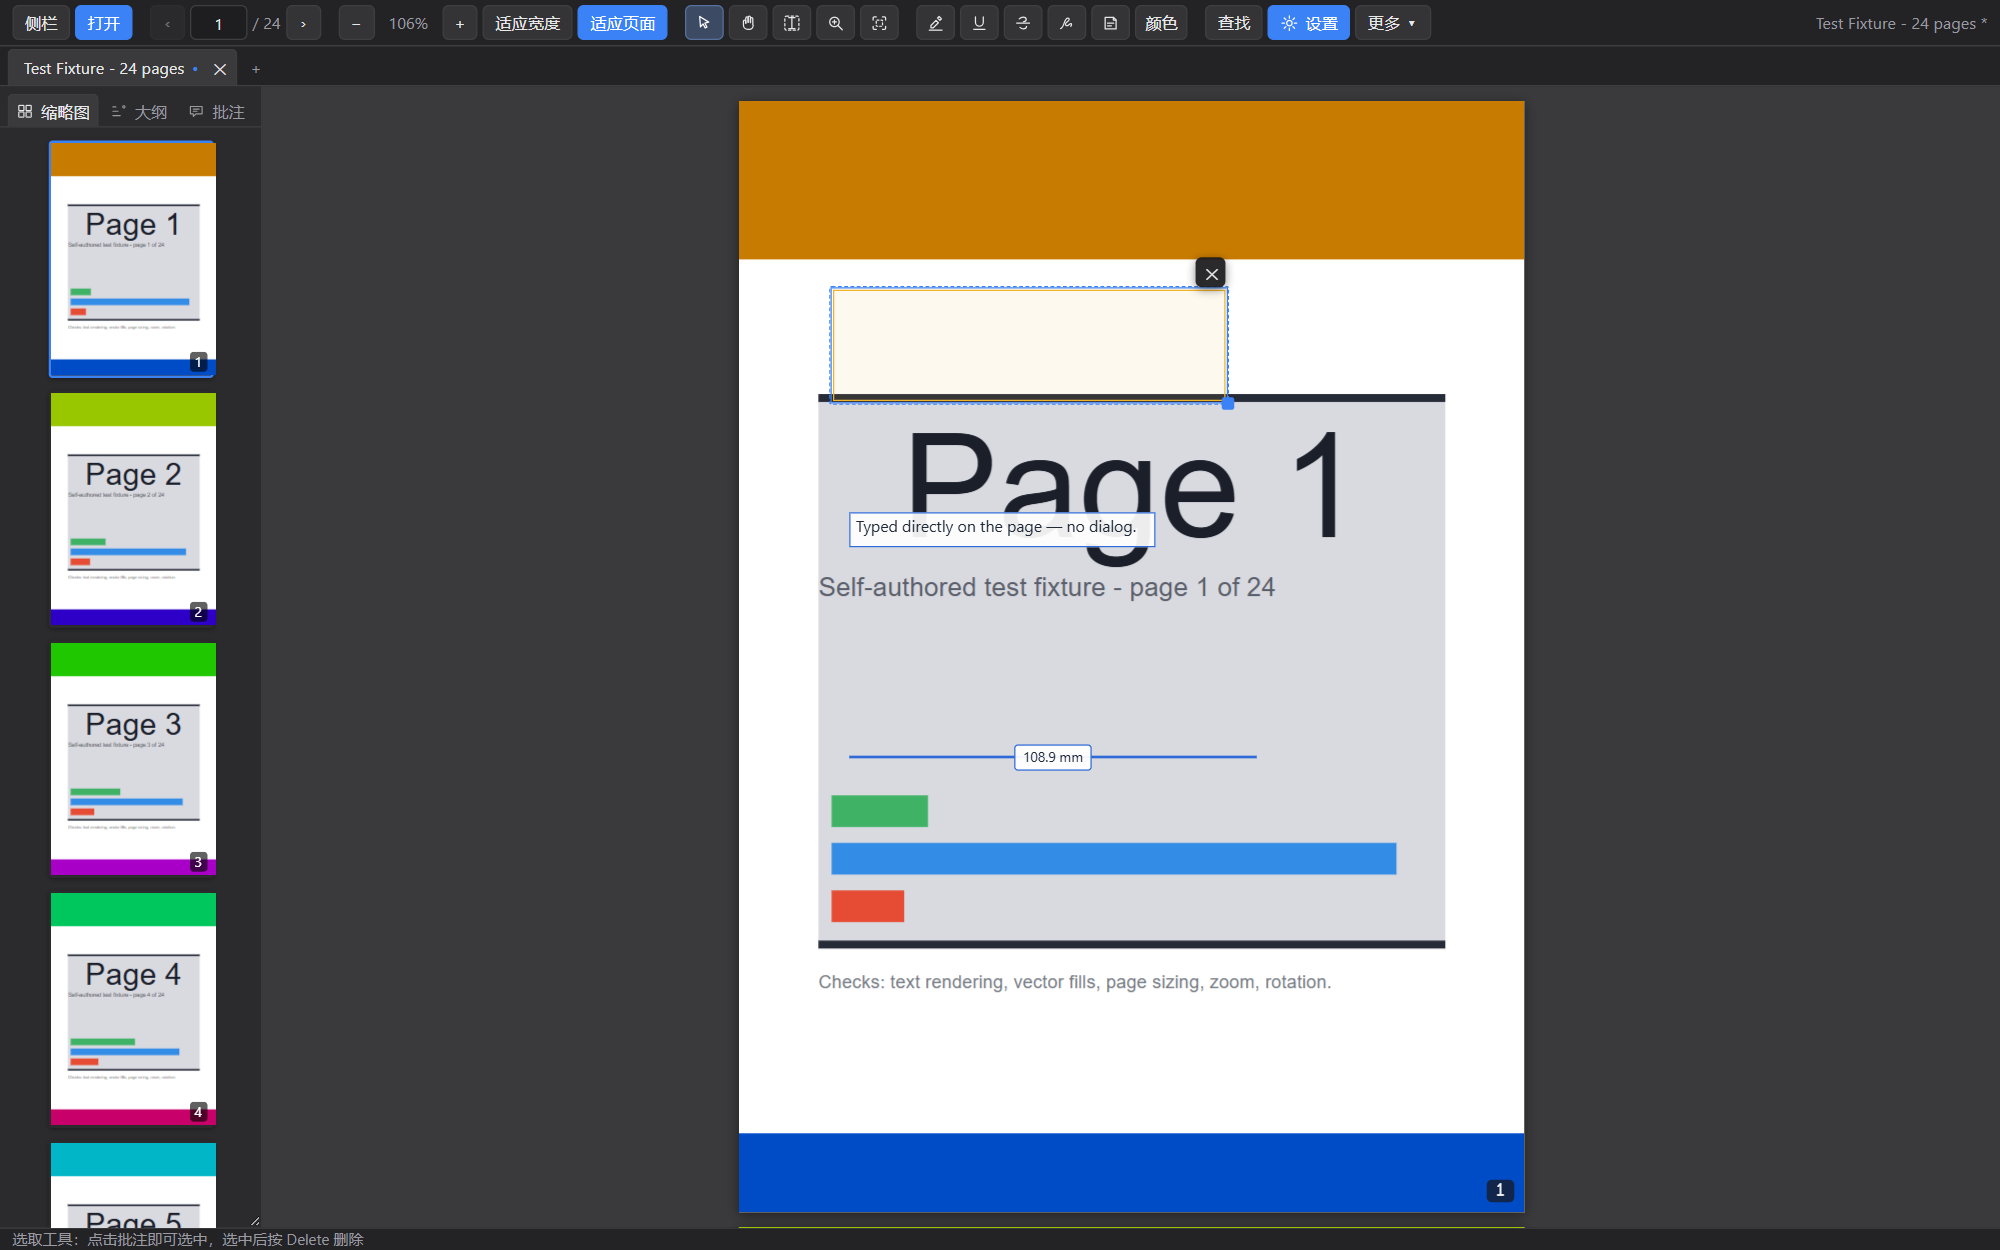
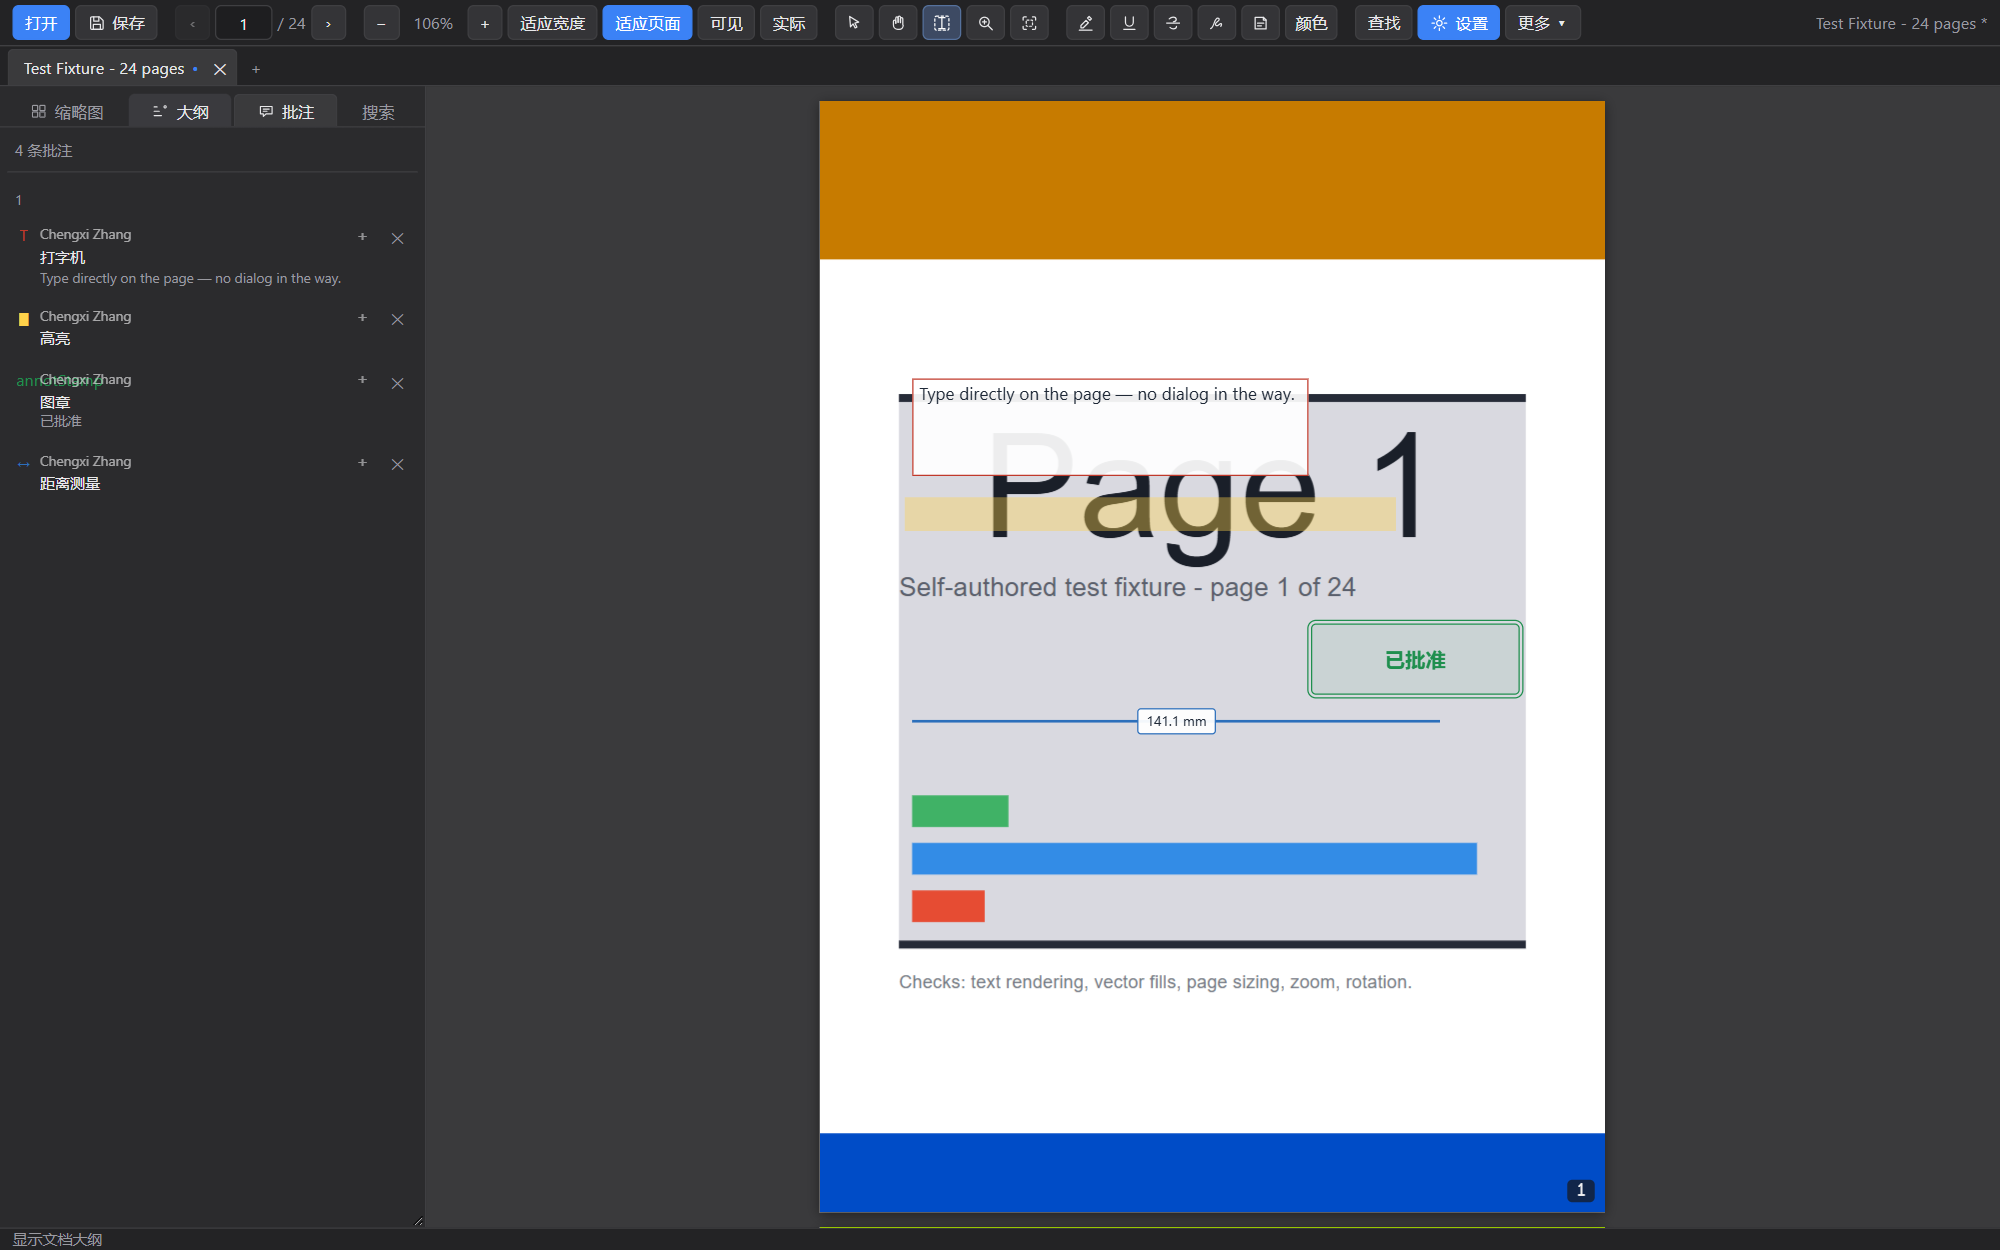
Name every annotation kind in the panel, and refresh the screenshots
The panel labelled almost everything "rectangle". `kindCommandId` mapped five kinds and
let the rest fall through to its default, so a typewriter box, a stamp, both text tools
and all three measurements appeared as rectangles -- a list you cannot tell apart. It now
covers every kind, and the mapping is exhaustive, so adding one without a label is a type
error rather than a silent default.

The screenshots are what a visitor sees first, and they were captured before printing,
stamps, replace text and the search panel existed. They now show a page with a typewriter
box, a highlight, a standard stamp and a distance measurement, beside the panel that lists
them -- and they show the fixed labels, which is how the labelling defect was noticed at
all: the panel in the old capture said "rectangle" for a stamp.

tools/make-screenshots.mjs regenerates both images from the running build, so the next
time the interface changes they can be brought up to date instead of drifting again.

731 browser assertions, 0 failures.

diff --git a/src/main.ts b/src/main.ts
@@ -900,6 +900,13 @@ async function saveCurrentStyle(): Promise<void> {
   setStatus(`${i18n.t('styleSaved')}: ${style.name}`);
 }
 
+/**
+ * The command a panel row is labelled with.
+ *
+ * Every kind is mapped: falling back to a default labelled every shape, every stamp and
+ * both text tools as a rectangle, which made the panel's list useless for telling them
+ * apart.
+ */
 function kindCommandId(kind: AnnotKind): number {
   switch (kind) {
     case 'highlight':
@@ -908,14 +915,30 @@ function kindCommandId(kind: AnnotKind): number {
       return CMD.AnnotUnderline;
     case 'strikeout':
       return CMD.AnnotStrikeout;
+    case 'replace':
+      return CMD.AnnotReplace;
     case 'ink':
       return CMD.AnnotInk;
     case 'note':
       return CMD.AnnotNote;
-    case 'replace':
-      return CMD.AnnotReplace;
-    default:
+    case 'rect':
       return CMD.AnnotRect;
+    case 'ellipse':
+      return CMD.AnnotEllipse;
+    case 'arrow':
+      return CMD.AnnotArrow;
+    case 'textbox':
+      return CMD.AnnotTextbox;
+    case 'callout':
+      return CMD.AnnotCallout;
+    case 'measure-distance':
+      return CMD.AnnotMeasureDistance;
+    case 'measure-perimeter':
+      return CMD.AnnotMeasurePerimeter;
+    case 'measure-area':
+      return CMD.AnnotMeasureArea;
+    case 'stamp':
+      return CMD.AnnotStamp;
   }
 }
 
